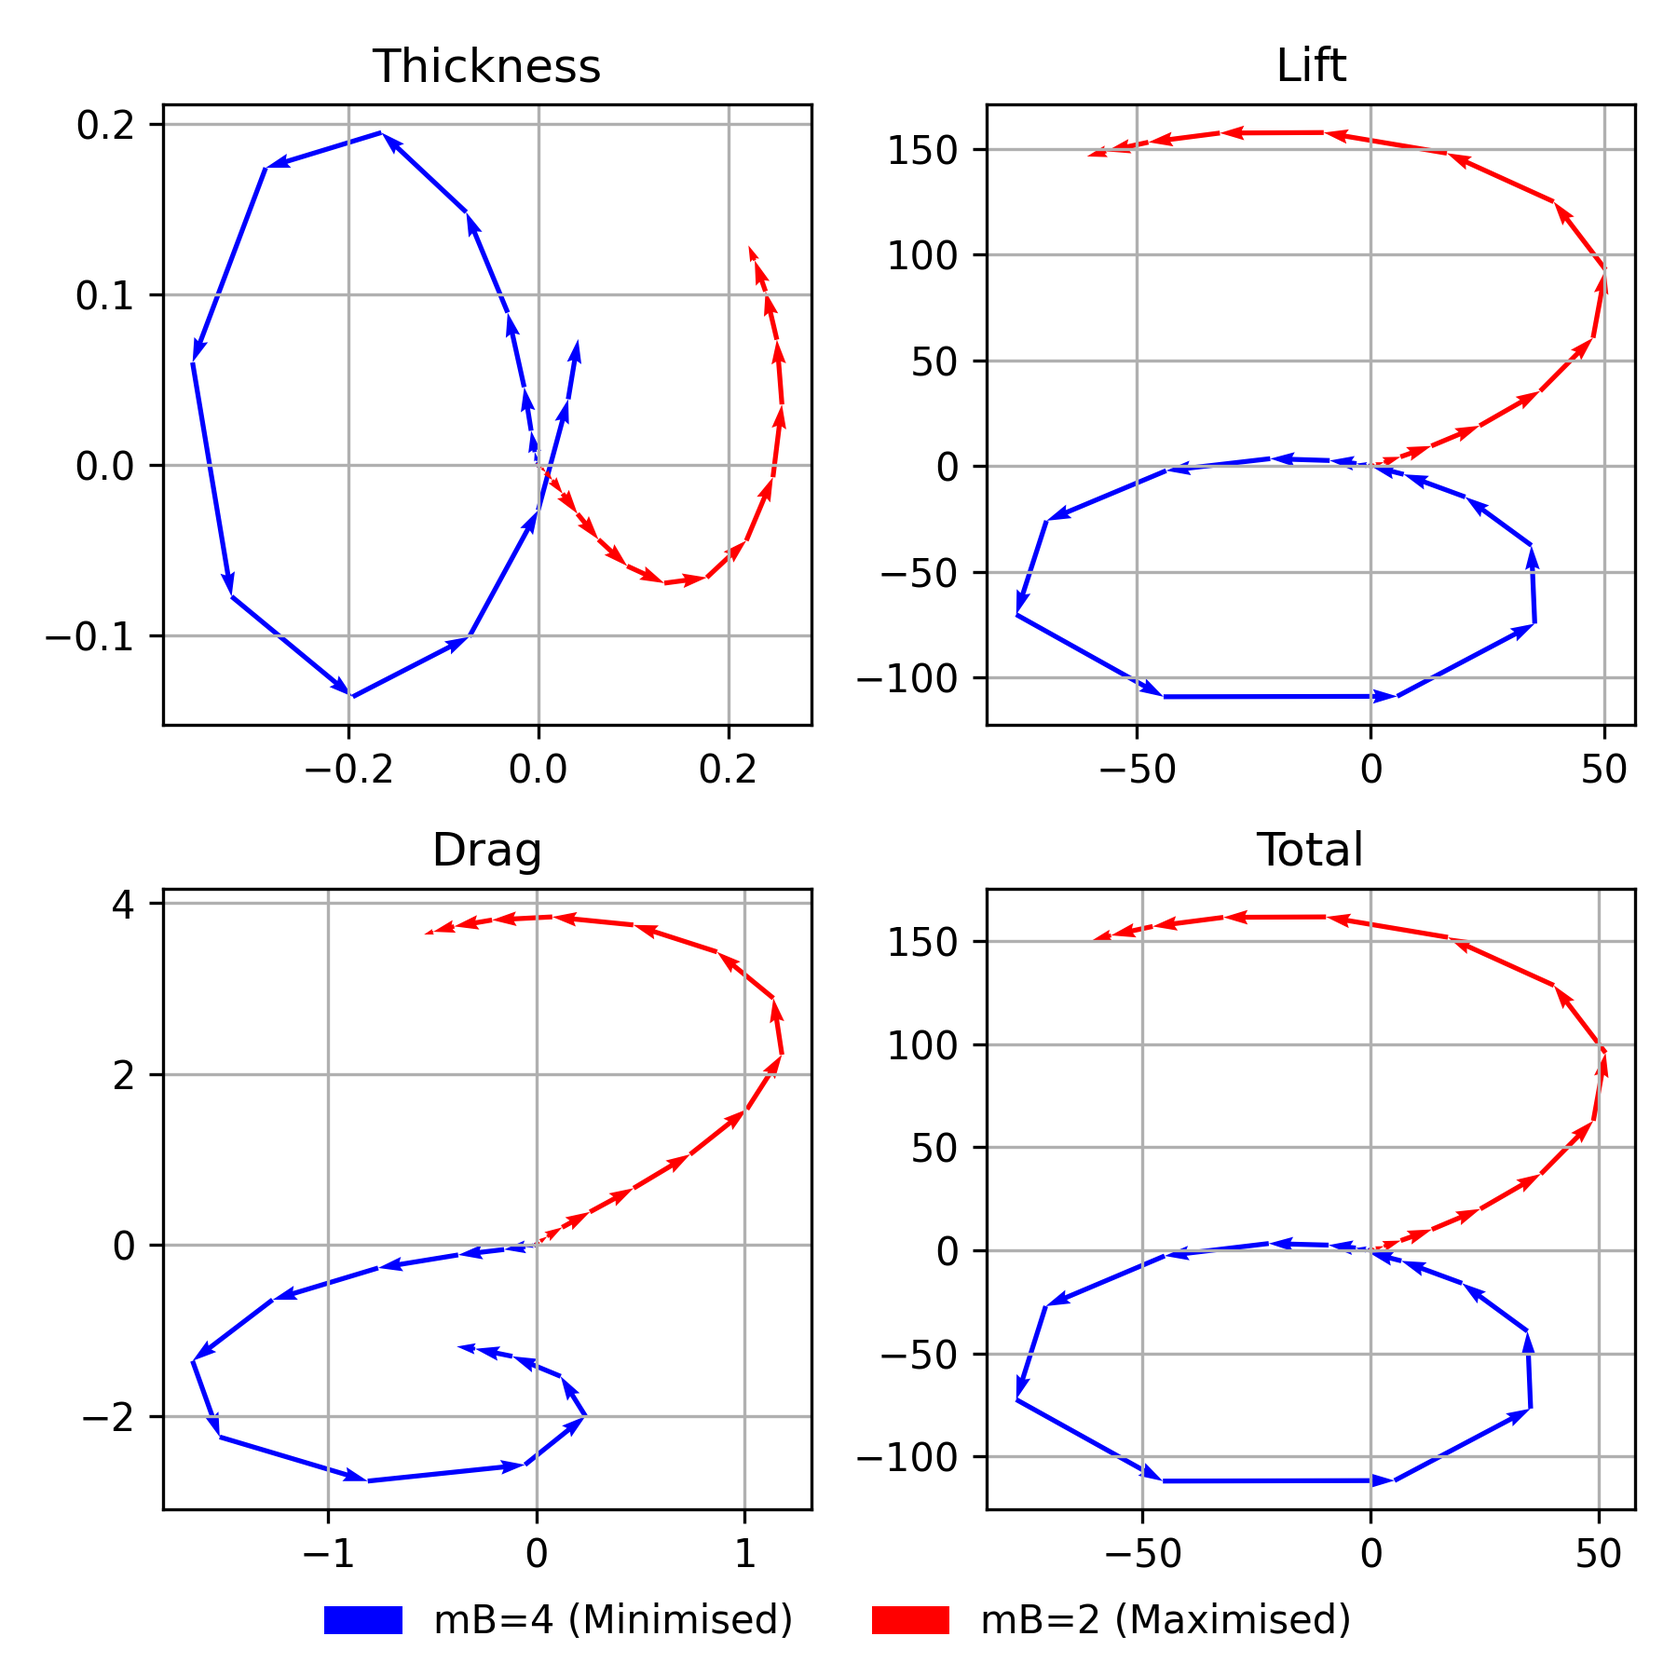
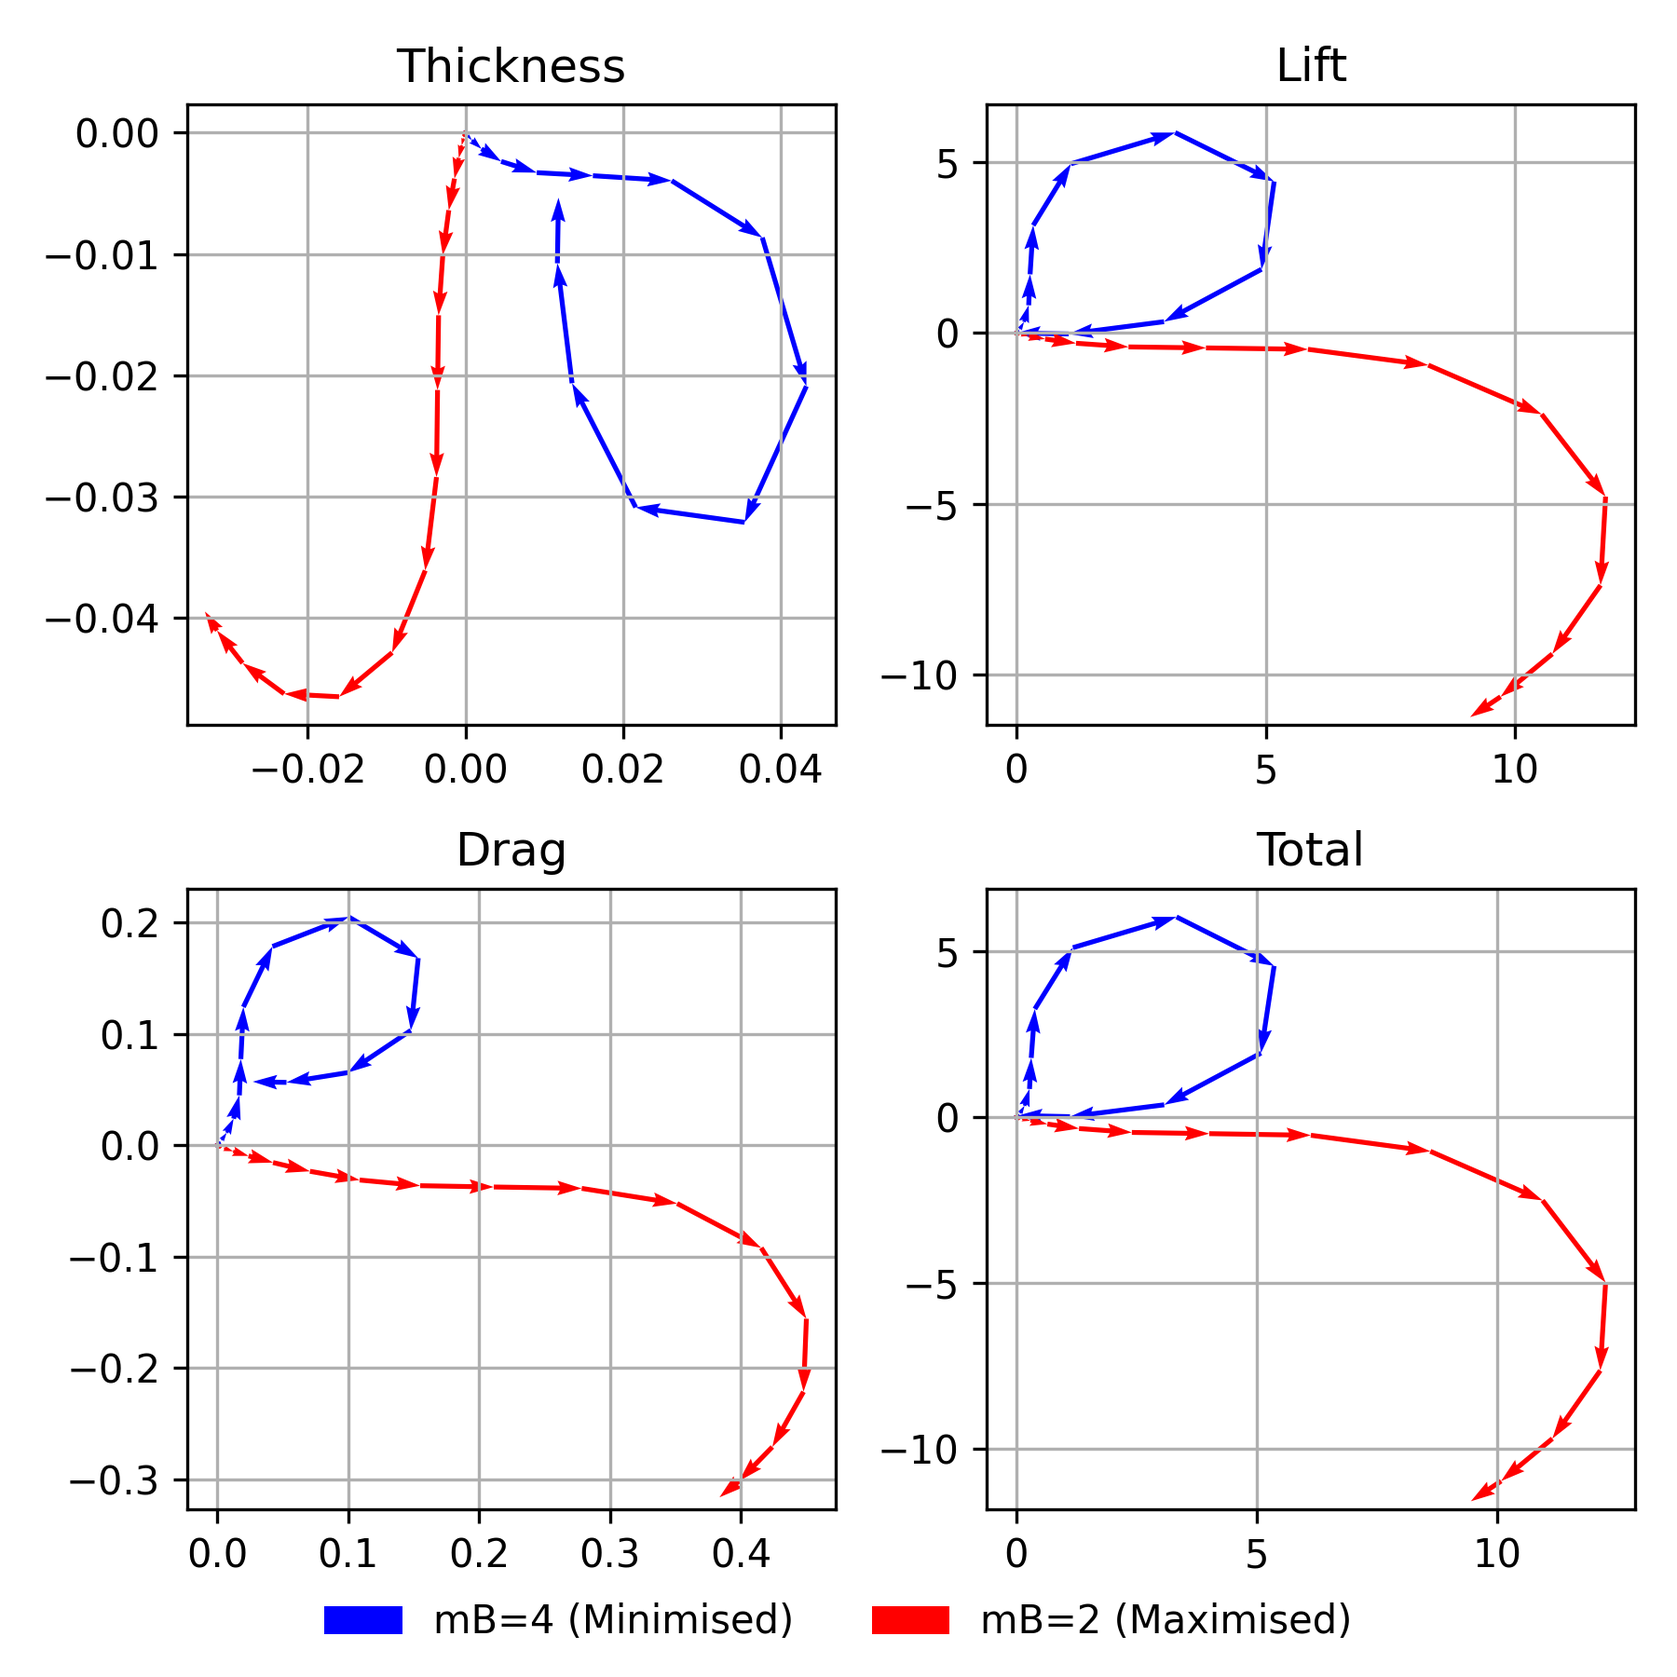
some progress bit slow need to actually sort the rest of the analysis and some conclusions

diff --git a/deliverables/final_report/draft2/draft2.tex b/deliverables/final_report/draft2/draft2.tex
@@ -167,12 +167,14 @@ From conservation of energy the sound intensity must be an inverse square law wi
 The sound energy can be shown to be proportional to the square of the sound pressure.
 This means that the sound pressure level will vary with distance in an inverse law.
 Equation \ref{eq:expected_plaw} shows the general form of the expected sound pressure level from a propeller.
+The propeller, being axi-symmetric, will produce an identical sound for observers at different azimuthal angles.
+The observer position is then defined by only the distance $R$ and angle from the axis $\theta$.
 
 \begin{equation}
-    p_m = \frac{\rho (r \Omega)^2}{R/r} |g(m, \theta, \text{geometry})| \label{eq:expected_plaw}
+    p_m = \frac{\rho (r \Omega)^2}{R/r} |g(m, \theta, \text{geometry}, ?)| \label{eq:expected_plaw}
 \end{equation}
 
-Where $g()$ is a non-dimensional function which accounts for directivity of the observer and geometry of the propeller.
+The non-dimensional function $g()$ accounts for directivity of the observer and geometry of the propeller.
 The dependence on $m$ and $\theta$ is due to interference patterns as the propeller is similar in size to the wavelengths of sound that it emits.
 This means sound generated from different pressure differentials along a propeller blade span, or chord, will interfere.
 Its important to note that this function is the square root of PSD, and so represents the magnitude sound pressure at each frequency.
@@ -181,7 +183,7 @@ To build a picture of the function $g()$ its required to model the sound generat
 \subsection{Noise Reduction Through Interference}
 
 Hanson \cite{hanson_theory} derived the far field noise by convecting sources along a helicoidal surface.
-His result, simplified for incompressible and zero flight speed, shows the magnitude of $g()$ defined here also depends on the propeller radius $r$ and angular speed $\Omega$.
+His result, simplified for incompressible and zero flight speed, shows the actual magnitude of $g()$ defined here also depends on the propeller radius $r$ and angular speed $\Omega$.
 The phase of $g()$ is also shown to linearly vary with observer distance.
 The harmonic far field sound is then an integral of spanwise sources with a magnitude and phase.
 The spanwise phase is shown to depend on the local sweep angle.
@@ -289,10 +291,8 @@ And similar definitions can be made for $OASPL$ and $OASPL_m$.
       $M_{\rm tip}$      &      &      & $\displaystyle(\dots)$ \\[6pt]
       \hline
     \end{tabular}
-    \caption{Upper-right entries are the ratios $X_{\rm eff}/X$ when holding the row-variable constant.}
+    \caption{Varying reference quantities at which to compare the sound pressure level. The $'$ denotes the reference value.}
   \end{table}
-
-
 
 \section{Methodology}
 
@@ -308,12 +308,6 @@ The experimental work was carried out in the acoustics lab at University of Camb
 Two separate setups were used to measure the aerodynamic and acoustic performance of the propellers.
 The primary reason for this separation was to ensure better measurements in each domain.
 The setups were designed to have near identical propeller and motor conditions, allowing for a direct comparison of the results.
-The drone motor, Emax ECO II Series 2207 1700KV, was used to drive the propellers with an Odrive S1 motor controller.
-This controller allowed for precise measurement and control of both motor speed and torque.
-A high speed AS5047P encoder was used to measure the angular position of the motor, which was numerically differentiated by the controller to obtain the angular velocity.
-This required a temperature resistant diametric magnet to rotate on the axis of the motor shaft.
-A push fit magnet mount was precision machined on a lathe to prevent vibration at the high speeds required.
-An identical 6 cell, 3300 mAh lithium polymer battery was also used to power the motor for both setups.
 
 \subsubsection{Saftey}
 The safety of the experimental setup was a key consideration throughout the project.
@@ -321,8 +315,20 @@ The testing required high speed rotating propellers which could cause serious in
 The custom 3D printed propellers were expected to be pushed to their material limits and so the risk of failure was high.
 For these reasons, all 3D printed propellers were tested solely in the foam anechoic chamber with the door closed and the operator outside.
 A watchdog timer was enabled with the controller to ensure safe shutdown if any communication from outside the chamber was lost.
+Additionally, the controller continuously monitors the correlation between the commanded mechanical power and the actual electrical power sent to the motor \cite{odrive_doc}.
+This means it will detect a sudden load imbalance, such as a propeller failure, and disarm to prevent further damage.
 A thermistor was attached to the motor to monitor the temperature and prevent overheating.
 This was especially important for the acoustic setup where the motor was enclosed in a foam box.
+The battery was placed under the table to prevent the risk of it being damaged by a propeller failure.
+
+\subsection{Hardware}
+A drone motor, specifically the Emax ECO II Series 2207 1700KV, was used to drive the propellers with an Odrive S1 motor controller.
+This controller uses a field oriented control (FOC) algorithm to drive the motor with minimal cogging torque \cite{en13102534}.
+This reduces vibration and acoustic noise \cite{motor_vibration}.
+A high speed AS5047P encoder was used to measure the angular position of the motor, which was numerically differentiated by the controller to obtain the angular velocity.
+This required a temperature resistant diametric magnet to rotate on the axis of the motor shaft.
+A push fit magnet mount was precision machined on a lathe to ensure balance and prevent vibration at the high speeds required.
+An identical 6 cell, 3300 mAh lithium polymer battery was also used to power the motor for both setups.
 
 \subsubsection{Data Collection}
 % software used, majority python, C++
@@ -544,7 +550,12 @@ This causes the triangle generation to be more complicated at the tip to avoid b
 Five commercial off the shelf propeller designs were bought for the project, four Dalprop designs shown in figure \ref{fig:dalprop_series} and one Foxeer looped design shown in figure \ref{fig:loop_series}.
 This was to compare the performance of 3D printed propellers to standard propellers used in the industry.
 The dalprops from left to right are 5045bnr, 4045, 5045, 6045.
-The first is a 3 bladed version of the 5045 and the last three are different sizes, 4", 5" and 6" respectively.
+The convention is that the first two digits represent the diameter in inches and the last two digits represent the pitch.
+This means that 5045 has a diameter of 5 inches and a pitch of 4.5 inches.
+The twist is found from local radius $r$ and the pitch $p$ of the propeller.
+\begin{equation}
+    \beta = \alpha + \arctan \left( \frac{p}{2\pi r} \right) \label{eq:twist}
+\end{equation}
 
 Ten propellers were manufactured from the models generated by the software.
 Clones of the 5045bnr and 5045 were printed, shown in figure \ref{fig:sweep_series}, along with a series of swept propellers.
@@ -573,7 +584,9 @@ The propellers were otherwise identical to the printed 5045 for consistency.
     \label{fig:loop_series}
 \end{figure}
 
-A highly swept $60^\circ$ propeller was also designed and printed, but broke.
+From the images taken after testing, it can be seen that both looped designs were damaged during testing.
+The 50loop\_s40 suffered a break at the hub and tips, whereas the 50loop\_s50 suffered a break at the tip.
+A highly swept $60^\circ$ propeller was also designed and printed, but broke at the mid-span during testing.
 
 \section{Results and Discussion}
 
@@ -590,7 +603,7 @@ A highly swept $60^\circ$ propeller was also designed and printed, but broke.
 
 \begin{figure}[H]
     \centering
-    \includegraphics[width=0.9\textwidth]{../tikz/loadcell_caltab.pdf}
+    \includegraphics[width=0.99\textwidth]{../tikz/loadcell_caltab.pdf}
     \caption{Calibration graphs for the load cells used in the aerodynamic setup.}
     \label{fig:loadcell_caltab}
 \end{figure}
@@ -644,8 +657,9 @@ This could be used at low torque values which were unable to be read by
     \label{fig:microphone_calibration}
 \end{figure}
 
-Figure \ref{fig:microphone_calibration} shows the calibration for the GRAS 46BD microphones used in the acoustic setup.
+Figure \ref{fig:microphone_calibration} shows the calibration for the GRAS 46BL microphones used in the acoustic setup.
 Low frequencies are shown to have little correction, while frequencies above the human range of hearing require correction.
+GRAS guarantees the calibrated response to be within 2 dB up to 20 kHz.
 
 \subsection{Aerodynamic performance}
 
@@ -811,6 +825,9 @@ The reason for this is also not understood, as it cant be due to broadband. It c
 \end{figure}
 
 Figures \ref{fig:harmonic_hanson_sweep_for_135deg} and \ref{fig:harmonic_sound_sweep_for_135deg} show the theoretical and experimental harmonic interference for the differently swept propellers at $\theta = 135^\circ$.
+The theory shows very little difference in the harmonic pressure factor $g$ for the small range of sweep angles tested.
+It can also be seen that while some reduce in magnitude, other harmonics increase.
+As previously discussed, the phase of each harmonic 
 
 
 \begin{figure}[H]

diff --git a/app/routines_aero.py b/app/routines_aero.py
@@ -5,6 +5,7 @@ import numpy as np
 import os
 import sys
 from scipy.optimize import curve_fit, OptimizeWarning
+from scipy import stats
 
 from app.routines import (
     load_prop_from_file,
@@ -33,13 +34,29 @@ def fit_cexp(x, y, initial_guess = [1000, 5, -1000]):
     y = y[sorted_indices]
 
     try:
-        params, _ = curve_fit(cexp, x, y, p0=initial_guess)
+        params, pcov = curve_fit(cexp, x, y, p0=initial_guess)
+        
+        # calc 90% confidence intervals
+        n = len(x)
+        p = len(params)
+        dof = max(0, n - p)
+        
+        # t-value for 90% confidence interval
+        t_value = stats.t.ppf(1.0 - 0.1/2, dof)
+        
+        #  standard errors
+        perr = np.sqrt(np.diag(pcov))
+        
+        # Calculate confidence intervals
+        conf_intervals = []
+        for i, p in enumerate(params):
+            conf_intervals.append([p - t_value * perr[i], p + t_value * perr[i]])
+        
+        return params, conf_intervals
     except RuntimeError:
         
         print("Error: Curve fitting failed. Returning max value.")
-        return [0, 0, np.max(y)]
-    
-    return params
+        return [0, 0, np.max(y)], None
 
 
 def calc_mean_forces(aero_data, tcal_data, qcal_data):
@@ -113,9 +130,9 @@ def calc_aero_coefficients(
 
         full_path = Path(prop_result_path).resolve()
 
-        if 'old' in full_path.parts:
-            continue
-        if 'noprop.prop' in full_path.parts:
+        if ('old' in full_path.parts or
+            'noprop.prop' in full_path.parts or
+            'nonlinear' in full_path.name):
             continue
 
         fprop = full_path.parent.parent / "props" / full_path.name
@@ -164,22 +181,38 @@ def calc_aero_coefficients(
 
         if np.std(CT) / np.mean(CT) > 0.1:
             print(f"Warning: High variance in thrust coefficients for {prop_result_path.name}")
-            params_t = fit_cexp(np.log10(speed_q), CT)
+            params_t, _ = fit_cexp(np.log10(speed_q), CT)
             converged_thrust_coefficient = params_t[0] + params_t[2]
         else:
             converged_thrust_coefficient = np.mean(CT)
         
         # fit torque curve
-        params_q = fit_cexp(np.log10(speed_q), CQ)
+        params_q, bounds_q = fit_cexp(np.log10(speed_q), CQ)
         
         converged_torque_coefficient = params_q[0] + params_q[2]
+
+        # calc improved std_CQ using the confidence intervals
+        improved_std_CQ = None
+        if bounds_q is not None:
+              # [lower, upper]
+            a_bounds = bounds_q[0]
+            c_bounds = bounds_q[2]
+            
+            # coefficient is (a+c)
+            coef_lower = a_bounds[0] + c_bounds[0]
+            coef_upper = a_bounds[1] + c_bounds[1]
+            
+            # z-score (1.645 for 90% confidence)
+            improved_std_CQ = (coef_upper - coef_lower) / (2 * 1.645)
+            # this is rubbish 
+        
         prop_name = prop_result_path.name.replace(".prop", "")
 
         output_aero_coefficients[prop_name] = [
             converged_thrust_coefficient, 
             converged_torque_coefficient,
             np.max(std_CT),  # max standard deviation in thrust coefficient
-            np.max(std_CQ)   # max
+            np.max(std_CQ)  # Improved standard deviation in torque coefficient
         ]
         
     return output_aero_coefficients

diff --git a/app/theory/hanson_comp_quadratic.py b/app/theory/hanson_comp_quadratic.py
@@ -255,8 +255,6 @@ def useless_plots(rdf):
         'deliverables/final_report/figures/FM_bar.pdf',
     )
     
-    return
-
     fdf.plot.bar(
         x='propeller', y=['SPLhanson', 'intercept'], 
         title='Hanson Noise vs SPL for Harmonic 1 at 135 degrees'
@@ -281,7 +279,7 @@ def useless_plots(rdf):
 def useful_plots(rdf):
 
     fig, ax = multi_function_plot(
-        rdf,
+        rdf.copy(),
         'harmonic',
         'SPLhanson',
         filter_dict={
@@ -423,6 +421,7 @@ def main():
         'app/results',
         load_cell_calibration()
     )
+
     
     ldf = parse_lookup_df('app/results')
 
@@ -438,15 +437,20 @@ def main():
     rdf = rdf.merge(tdf, on=['propeller', 'angle_bin', 'harmonic'], how='left')
     rdf = merge_aero_coeffs(rdf, aero_coeffs)
 
+    print(rdf)
+
+    print(aero_coeffs)
+
     print(rdf.head())
     print(rdf.columns)
+
+    useless_plots(rdf)
+    useful_plots(rdf)
 
     rdf_filt = filter_df(rdf, {'harmonic': 1, 'angle_bin': 135, 'distance': (19, 21)})
     rdf_filt = rdf_filt.drop(columns=['distance', 'r_squared', 'residual_std', 'harmonic'])
 
     print(rdf_filt)
-    useful_plots(rdf)
-    useless_plots(rdf)
 
      
 

diff --git a/app/theory/hanson_comp.py b/app/theory/hanson_comp.py
@@ -3,7 +3,6 @@ import numpy as np
 
 from matplotlib import cm
 from matplotlib import pyplot as plt
-from PyQt6.QtWidgets import QApplication
 
 from scipy.integrate import (
     cumulative_trapezoid, simpson, trapezoid
@@ -652,7 +651,7 @@ def operating_range(
 
     for i, J in enumerate(Js):
         av.oper["V"] = J * av.oper["Omega"] * av.prop["rt"]
-        av = betz_off_design(av)
+        av = static_bem_swirl(av)
 
         if not av.res["converged"]:
             CPs[i] = np.nan
@@ -905,7 +904,7 @@ def main():
 
     av.xfoil_data = run_xfoil(av.airfoil_data)
 
-    av = guaranteed_convergence_BEM(av)
+    av = static_bem_swirl(av)
 
     av.res["alpha"] = 5 * np.ones(av.prop["nr"])
 
@@ -924,8 +923,8 @@ def main():
     plot_simple_optimised_harmonic(av, 10)
     generate_and_save_propeller_mesh(av, "app/props/twin_conopt.stl")
 
-    chord_locus_alpha(av, np.arange(0, 10, 2), 3)
-    hanson_sweep(av)
+    #chord_locus_alpha(av, np.arange(0, 10, 2), 3)
+    #hanson_sweep(av)
 
     plt.show()
 
@@ -999,4 +998,4 @@ def main2():
 
 
 if __name__ == "__main__":
-    main2()
+    main()

diff --git a/deliverables/final_report/tikz/loadcell_caltab.tex b/deliverables/final_report/tikz/loadcell_caltab.tex
@@ -5,18 +5,18 @@
 \centering
 % first column: bold, ragged‐right, vertically centered, width = 0.2\textwidth
 \begin{tabular}{|
-    >{\raggedright\bfseries\arraybackslash}m{0.2\textwidth}
+    >{\raggedright\bfseries\arraybackslash}m{0.15\textwidth}
     | c
     | c |
   }
   \hline
-    & Thrust Load Cell & Torque Load Cell \\
+    & \small{Thrust Load Cell} & \small{Torque Load Cell} \\
   \hline\hline
-  Thrust Calibration
+  \tiny{Thrust Calibration}
     & \raisebox{-0.5\height}{\includegraphics[width=0.3\linewidth]{Thrust_thrust.png}}
     & \raisebox{-0.5\height}{\includegraphics[width=0.3\linewidth]{Torque_thrust.png}} \\
   \hline
-  Torque Calibration
+  \tiny{Torque Calibration}
     & \raisebox{-0.5\height}{\includegraphics[width=0.3\linewidth]{Thrust_torque.png}}
     & \raisebox{-0.5\height}{\includegraphics[width=0.3\linewidth]{Torque_torque.png}} \\
   \hline

diff --git a/app/results/residual_function_variation.py b/app/results/residual_function_variation.py
@@ -91,7 +91,7 @@ def plot_sound_FOM(hdf, aero_data):
     
     fm_dict = {
         prop: Ct**(3/2) / (np.sqrt(2) * Cq)
-        for prop, (Ct, Cq) in aero_data.items()
+        for prop, (Ct, Cq, _, _) in aero_data.items()
     }
     
     hdf['FM'] = hdf['propeller'].map(fm_dict)
@@ -108,6 +108,10 @@ def plot_sound_FOM(hdf, aero_data):
         },
         group_by='propeller'
     )
+
+    # set x and y labels
+    ax.set_xlabel('FM [-]')
+    ax.set_ylabel('$20 \log_{10} G()  $ [dB]')
 
     # get xlim and ylim
     xlo, xhi = ax.get_xlim()

diff --git a/app/result_widgets.py b/app/result_widgets.py
@@ -15,9 +15,7 @@ from PyQt6.QtWidgets import (
 )
 
 from app.bem import (
-    betz_off_design,
-    guaranteed_convergence_BEM,
-    operating_range,
+    static_bem_swirl,
     static_bem_basic
 )
 from app.hanson import (
